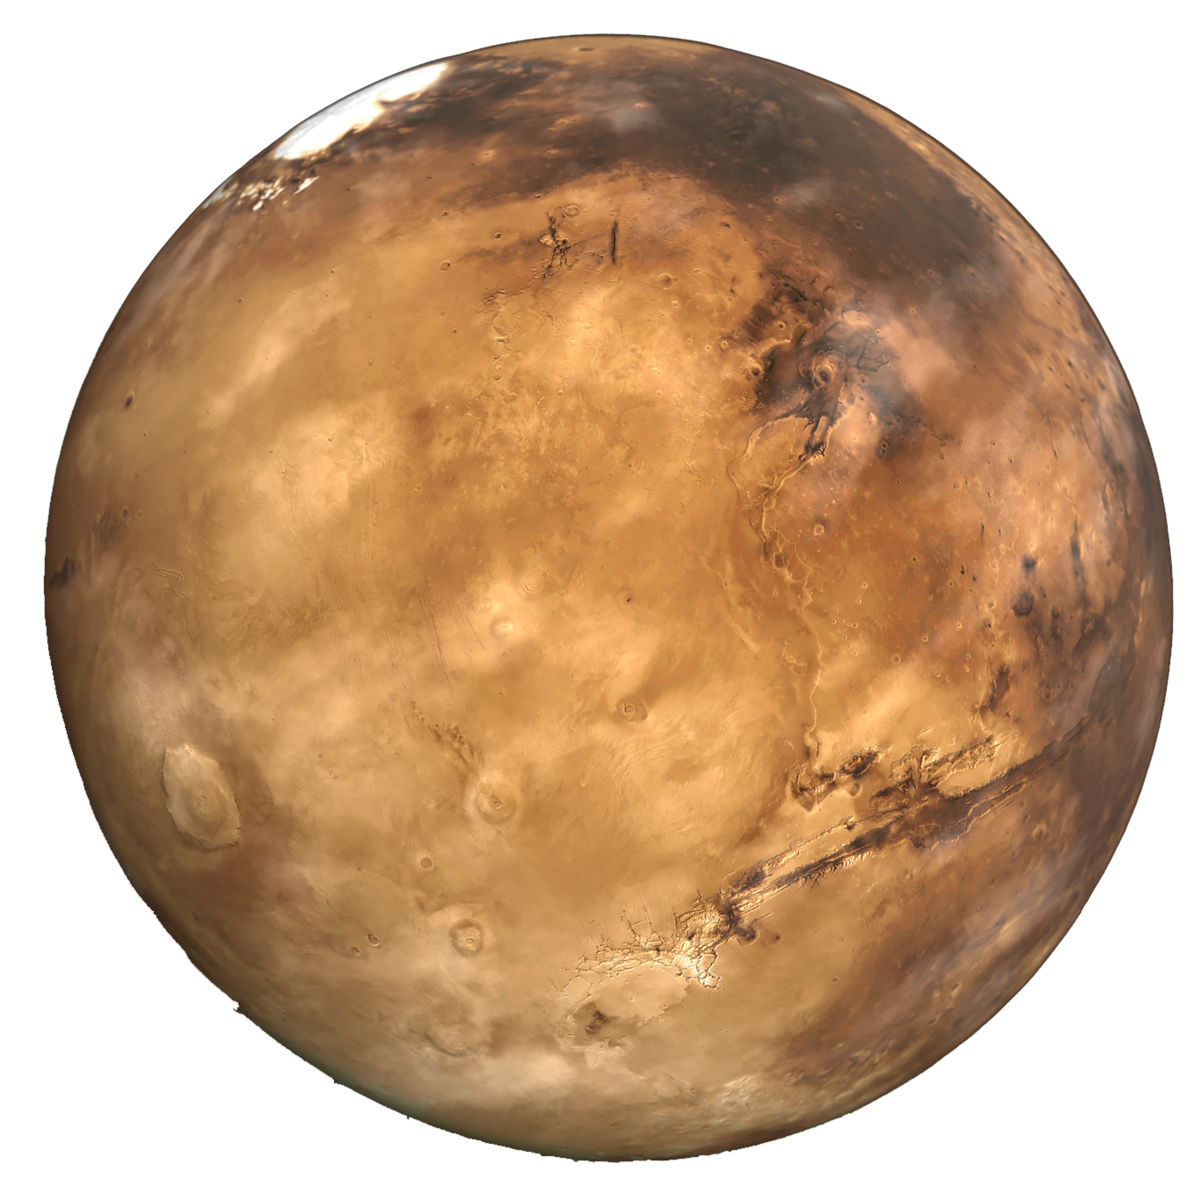
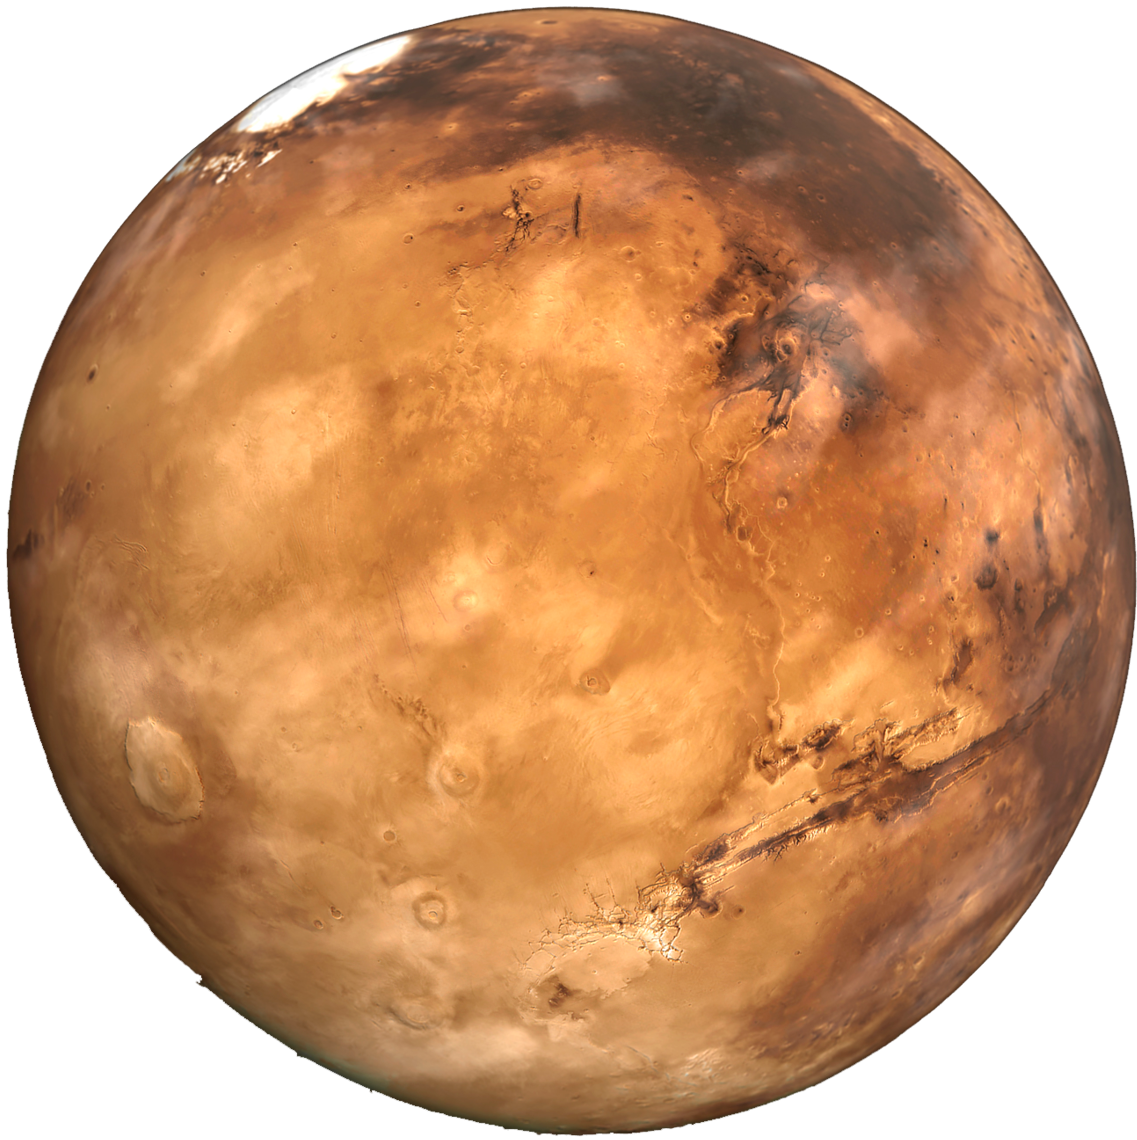
Minor changes to almost every page + travel page redesigning, image compressing/resizing, safety page redesign

diff --git a/safety.html b/safety.html
@@ -35,15 +35,15 @@
     <p id="disclaimer" data-aos="fade-up">We are so excited to have you onboard with us at Pulsar! Please read this page carefully to understand our procedures for ensuring the safest possible experience for you. </p>
     <div id="section">
         <p id="header" data-aos="fade-up">Before your trip</p>
-        <div id="listing">
+        <div id="listing" data-aos="fade-up-left">
             <p id="num" data-aos="fade-up-right">1</p>
-            <p id="text">Please review all of the materials provided to you in your pre-trip packet, including the emergency procedures, trip instructions, and safety guidelines. This is imperative for ensuring YOUR safety. Sign off on the agreements page and hand it to the flight coordinator before boarding.</p>
+            <p id="text">Please review all of the materials provided to you in your pre-trip packet, including the emergency procedures, trip instructions, and safety guidelines. This is imperative for ensuring your safety. Sign off on the agreements page and hand it to the flight coordinator before boarding.</p>
         </div>
-        <div id="listing">
+        <div id="listing" data-aos="fade-up-left">
             <p id="num" data-aos="fade-up-right">2</p>
             <p id="text">Make sure you are in healthy physical condition. If you have any preexisting medical conditions, please let us know in advance and mark it when you sign up.</p>
         </div>
-        <div id="listing">
+        <div id="listing1" data-aos="fade-up-left">
             <p id="num" data-aos="fade-up-right">3</p>
             <p id="text">Follow the packing list provided to you in advance and make sure you have all of the necessary items for your trip.</p>
         </div>
@@ -51,31 +51,31 @@
 
     <div id="section">
         <p id="header" data-aos="fade-up">During your trip</p>
-        <div id="listing">
+        <div id="listings" data-aos="fade-up-left">
             <p id="num" data-aos="fade-up-right">1</p>
             <p id="text">Follow all instructions and guidelines provided by our trained professionals.</p>
         </div>
-        <div id="listing">
+        <div id="listings" data-aos="fade-up-left">
             <p id="num" data-aos="fade-up-right">2</p>
             <p id="text">Stay within designated areas and do not tamper with equipment.</p>
         </div>
-        <div id="listing">
+        <div id="listing1" data-aos="fade-up-left">
             <p id="num" data-aos="fade-up-right">3</p>
             <p id="text">If you experience any unusual symptoms or discomfort, alert a team member immediately.</p>
         </div>
     </div>
 
     <div id="section">
-        <p id="header"  data-aos="fade-up" style="color: #ff7d7d;">Emergency protocols</p>
-        <div id="listing">
+        <p id="header1"  data-aos="fade-up">Emergency protocols</p>
+        <div id="listings" data-aos="fade-up-left">
             <p id="num" data-aos="fade-up-right" style="color: #ff7d7d;">1</p>
             <p id="text">Stay calm and follow the instructions provided by our trained space travel professionals.</p>
         </div>
-        <div id="listing">
+        <div id="listings" data-aos="fade-up-left">
             <p id="num" data-aos="fade-up-right" style="color: #ff7d7d;">2</p>
             <p id="text">Familiarize yourself with the location of the emergency exits and the emergency procedures.</p>
         </div>
-        <div id="listing">
+        <div id="listing2" data-aos="fade-up-left">
             <p id="num" data-aos="fade-up-right" style="color: #ff7d7d;">3</p>
             <p id="text">If an evacuation is necessary, follow the evacuation procedures and move quickly but calmly to the nearest exit. From there, a team member will lead you to the evacuation pod. </p>
         </div>

diff --git a/travel.html b/travel.html
@@ -36,35 +36,35 @@
         <p id="header"  data-aos="zoom-in-up">Destinations</p>
         <div id="planet">
             <img id="planetimage" data-aos="zoom-in" src="./images/agenon.png"></img>
-            <div id="planetinfo">
+            <div id="planetinfo" data-aos="fade-up-left">
                 <p id="planetheader" data-aos="fade-up-right">Agenon-901</p>
                 <p id="planettext" data-aos="fade-up-left">Nestled among the stars in a distant corner of the far galaxy is the lush, verdant planet of Agenon-901. It is a planet of rolling green hills and towering mountain ranges, all teeming with a diverse array of plant life unlike anything Earth exhibits. </p>
             </div>
         </div>
         <div id="planet">
             <img id="planetimage" data-aos="zoom-in" src="./images/Dramangode.png"></img>
-            <div id="planetinfo">
+            <div id="planetinfo" data-aos="fade-up-left">
                 <p id="planetheader" data-aos="fade-up-right">Dramangode</p>
                 <p id="planettext" data-aos="fade-up-left">This is a moon home to a current mining operation of NASA of valuable ore, pyrostilanium, which is currently being experimented on for fascinating uses. </p>
             </div>
         </div>
         <div id="planet">
             <img id="planetimage" data-aos="zoom-in" src="./images/bizzario.png"></img>
-            <div id="planetinfo">
+            <div id="planetinfo" data-aos="fade-up-left">
                 <p id="planetheader" data-aos="fade-up-right">Bizzario</p>
                 <p id="planettext" data-aos="fade-up-left">Located in the far reaches of the observable universe, Bizarrio hosts a wondrous display of white aura lights surrounding its atmosphere, making for a phenomenal light show.</p>
             </div>
         </div>
         <div id="planet">
             <img id="planetimage" data-aos="zoom-in" src="./images/terran.png"></img>
-            <div id="planetinfo">
+            <div id="planetinfo" data-aos="fade-up-left">
                 <p id="planetheader" data-aos="fade-up-right">Terran-57</p>
                 <p id="planettext" data-aos="fade-up-left">Terran-57 is a large aquatic planet, with the surface consisting almost entirely of water. The strange orbital patterns of the planet cause enormous waves, whirlpools, tornadoes, and much more to form on the surface, a truly wondrous sight to see.</p>
             </div>
         </div>
         <div id="planet">
             <img id="planetimage" data-aos="zoom-in" src="./images/Vanichor.png"></img>
-            <div id="planetinfo">
+            <div id="planetinfo" data-aos="fade-up-left">
                 <p id="planetheader" data-aos="fade-up-right">Vanichor</p>
                 <p id="planettext" data-aos="fade-up-left">Vanichor is a barren, desolate planet located in the outer reaches of the galaxy. It is covered in vast deserts of red sand and rocky cliffs, with no vegetation or animal life to be found. The planet's surface is scarred with the remains of ancient civilizations and ruins, hinting at a history of habitation long since abandoned.</p>
             </div>

diff --git a/safety.css b/safety.css
@@ -30,22 +30,47 @@ body {
     margin-right: auto;
     margin-bottom: 100px;
 }
-#header {
+#header, #header1 {
     font-size: 70px;
-    color: var(--second);
+    padding-top: 20px;
     text-transform: uppercase;
-    text-align: center;
     font-weight: 700;
+    border-top: 6px solid var(--second);
+    border-left: 6px solid var(--second);
+    color: white;
+    width: 1000px;
+    margin-top: 0;
+    margin-bottom: 150px;
+    text-align: center;
+}
+#header1 {
+    border-top: 6px solid #ff7d7d;
+    border-left: 6px solid #ff7d7d;
 }
 #text {
     font-size: 18px;
     color: white;
     margin-left: 20px;
 }
-#listing {
-    margin-top: -75px;
+#listing, #listings, #listing1,#listing2 {
+    margin-top: -120px;
     display: flex;
+    width: 900px;
+    padding-left: 50px;
+    padding-right: 50px;
+    padding-bottom: 50px;
     align-items: center;
+}
+#listings, #listing1, #listing2 {
+    margin-top: -150px;
+}
+#listing1 {
+    border-right: 6px solid var(--second);
+    border-bottom: 6px solid var(--second);
+}
+#listing2 {
+    border-right: 6px solid #ff7d7d;
+    border-bottom: 6px solid #ff7d7d;
 }
 #num {
     font-size: 50px;

diff --git a/travel.css b/travel.css
@@ -37,29 +37,39 @@ body {
 }
 
 #planet {
-    margin-top: 0px;
+    margin-top: 50px;
     display: flex;
     justify-content: center;
     align-items: center;
 }
 #planetimage {
-    width: 250px;
-    height: 250px;
+    width: 150px;
+    height: 150px;
+    border-right: 6px solid white;
+    border-bottom: 6px solid white;
+    padding-bottom: 50px;
+    padding-left: 50px;
+    padding-top: 50px;
+    padding-right: 50px;
 }
 
 #planetinfo {
+    border-top: 6px solid var(--second);
+    border-left: 6px solid var(--second);
+    margin-left: 50px;
+    padding-left: 50px;
     font-size: 18px;
-    margin-left: 30px;
+    height: 250px;
 }
 #planetheader {
     font-size: 40px;
     text-transform: uppercase;
     font-weight: 700;
     color: var(--second);
-    margin-bottom: -25px;
+    margin-bottom: -10px;
 }
 #planettext {
-    font-size: 20px;
+    font-size: 18px;
     color: white;
 }
 
@@ -92,6 +102,10 @@ body {
     padding-left: 20px;
     padding-right: 20px;
     padding-bottom: 50px;
+    transition: 0.4s;
+}
+#choice:hover {
+    transform: scale(1.1);
 }
 #price {
     font-size: 40px;

diff --git a/book.html b/book.html
@@ -29,7 +29,7 @@
 
     <div id="back">
         <p id="header" data-aos="zoom-in-up">We're Sorry!</p>
-        <p id="sub" data-aos="fade-in" data-aos-duration="2000">Booking is currently closed for the winter season. <br>You can purchase tickets again on April 29th, 2048. <br><br>In the meantime, you can visit our facility to experience our parks, museum, and theater.</p>
+        <p id="sub" data-aos="fade-in" data-aos-duration="2000">Due to cold weather, booking and touring is currently closed for the winter season. <br>You can purchase tickets again on March 29th, 2048. <br><br>In the meantime, you can visit our facility to experience our parks, museum, and theater.</p>
         <div id="links">
             <a id="option" data-aos="fade-up-right" href="./index.html"><p id="arrow" data-aos="fade-up" data-aos-duration="1000">></p>Home</a>
             <a id="option1" data-aos="fade-up-left" href="./visit.html"><p id="arrow" data-aos="fade-up" data-aos-duration="2000">></p>Visit Us</a>

diff --git a/visit.css b/visit.css
@@ -43,7 +43,7 @@ body {
     margin-left: 20px;
 }
 #secimg1, #secimg2, #secimg3, #secimg4 {
-    background: url(./images/park.jpg);
+    background: url(./images/park.png);
     width: 1000px;
     height: 500px;
     background-size: cover;
@@ -51,19 +51,19 @@ body {
 }
 
 #secimg2 {
-    background: url(./images/museum.jpg);
+    background: url(./images/museum.png);
     background-size: cover;
     background-position: center left;
 }
 
 #secimg3 {
-    background: url(./images/theater.jpg);
+    background: url(./images/theater.png);
     background-size: cover;
     background-position: center;
 }
 
 #secimg4 {
-    background: url(./images/foodcourt.jpg);
+    background: url(./images/foodcourt.png);
     background-size: cover;
     background-position: center;
 }

diff --git a/vehicles.css b/vehicles.css
@@ -94,6 +94,8 @@ body {
     color: var(--second);
     font-size: 50px;
     padding-bottom: 50px;
+    margin-left: -2px;
+    margin-right: -2px;
     font-weight: 600;
 }
 #labels {

diff --git a/about.css b/about.css
@@ -150,7 +150,7 @@ body {
     display: flex;
     font-size: 70px;
     color: var(--second);
-    padding-left: 20px;
+    padding-left: 50px;
     border-left: 6px solid white;
 }
 
